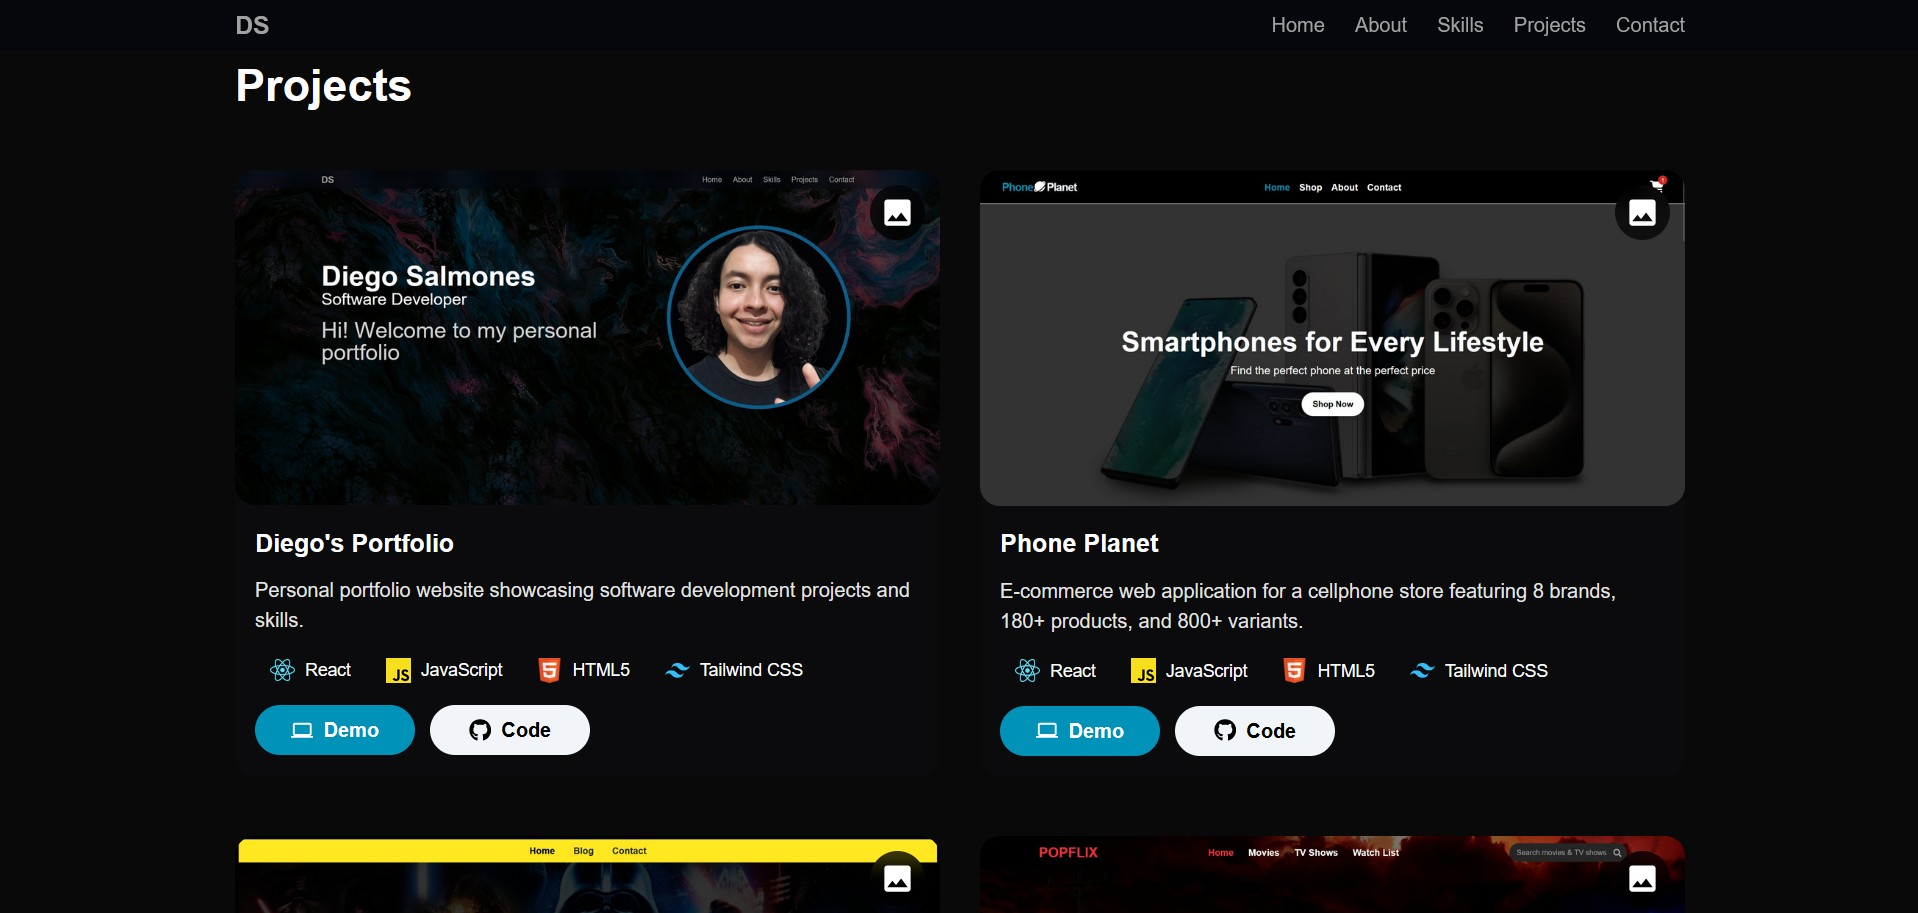
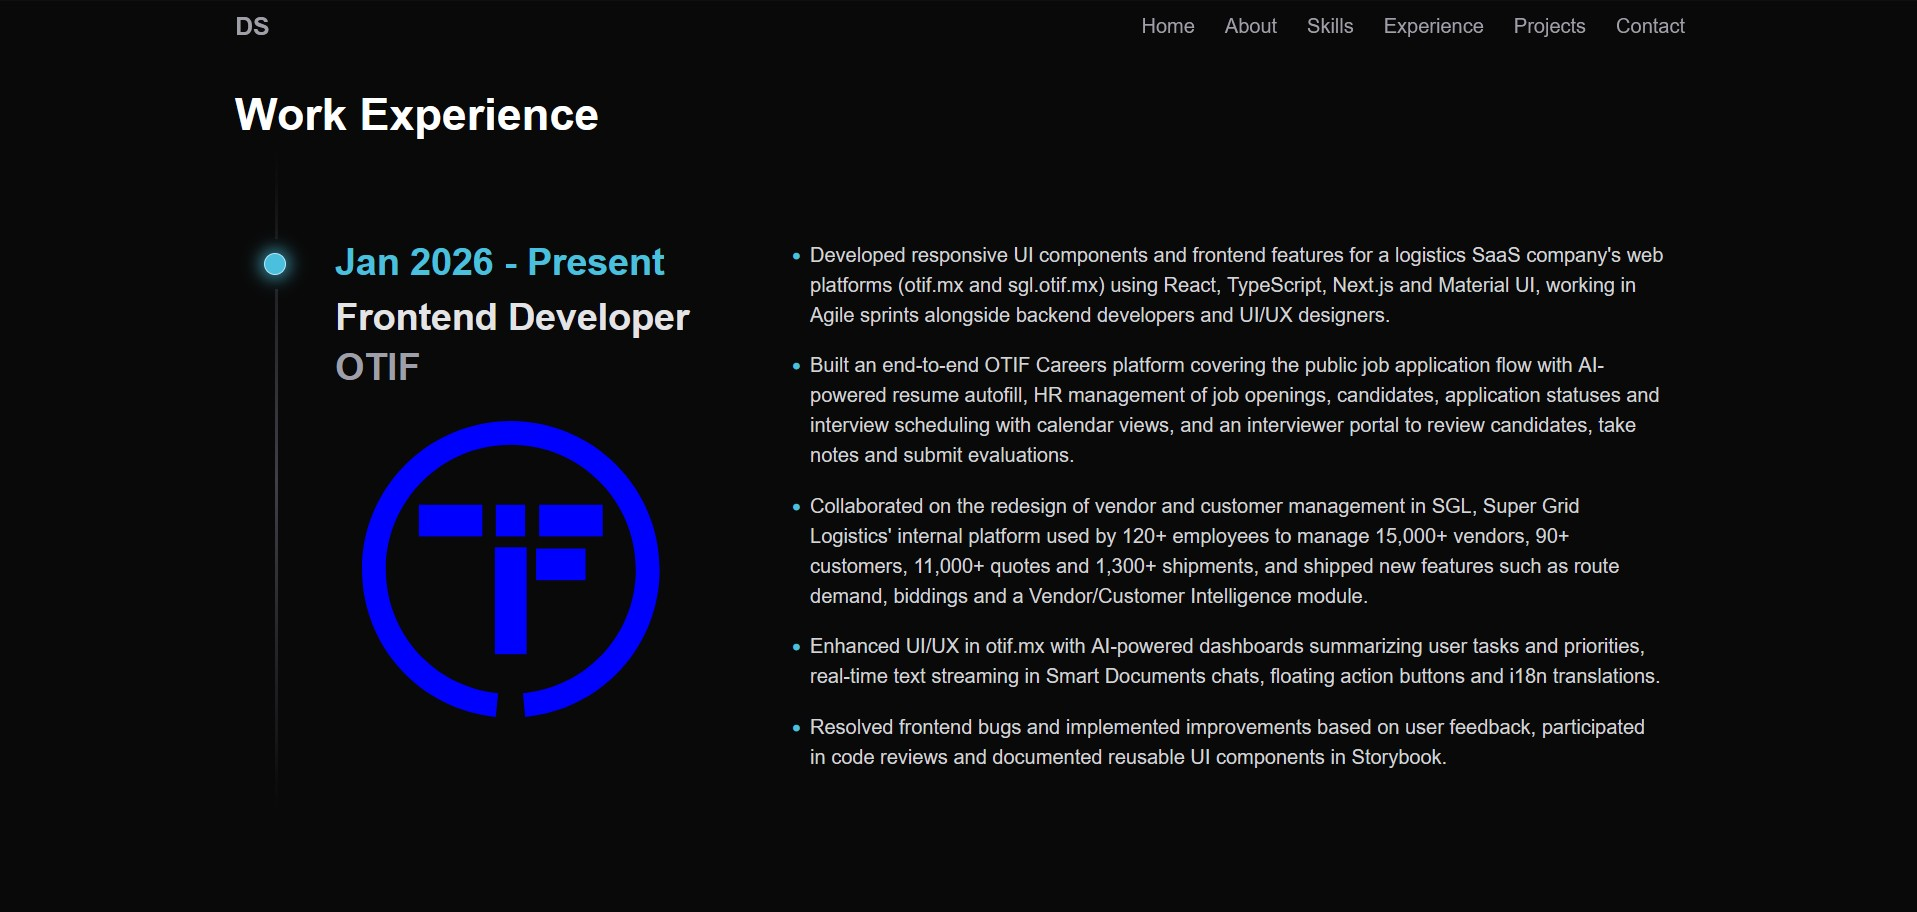
feat: update portfolio

diff --git a/src/constants/projects.js b/src/constants/projects.js
@@ -3,7 +3,7 @@ export const projects = [
     id: 1,
     title: "Diego's Portfolio",
     description:
-      "Personal portfolio website showcasing software development projects and skills.",
+      "Personal portfolio website showcasing my work experience, software development projects and skills.",
     demo: "https://diegosalmones-portfolio.vercel.app/",
     repository: "https://github.com/DiegoSalm522/DiegosPortfolio",
     image: "/assets/projects/diegos-portfolio/img0.jpg",
@@ -13,6 +13,7 @@ export const projects = [
       "/assets/projects/diegos-portfolio/img2.jpg",
       "/assets/projects/diegos-portfolio/img3.jpg",
       "/assets/projects/diegos-portfolio/img4.jpg",
+      "/assets/projects/diegos-portfolio/img5.jpg",
     ],
     tags: [
       {

diff --git a/src/sections/Experience.jsx b/src/sections/Experience.jsx
@@ -7,13 +7,13 @@ const Experience = () => {
     active: experience.current,
     title: (
       <div className="font-bold">
-        <p className="text-3xl md:text-4xl text-zinc-200">
+        <p className="text-3xl md:text-4-xl text-aqua">
           {experience.period}
         </p>
-        <p className="mt-1 text-2xl md:text-3xl text-zinc-400">
+        <p className="mt-2 text-2xl md:text-3xl text-zinc-200">
           {experience.role}
         </p>
-        <p className="text-2xl md:text-3xl text-zinc-500">
+        <p className="mt-1 text-2xl md:text-3xl text-zinc-400">
           {experience.company}
         </p>
         {experience.logo && (

diff --git a/src/constants/experience.js b/src/constants/experience.js
@@ -1,7 +1,7 @@
 export const experiences = [
   {
     id: 1,
-    period: "2026 - Present",
+    period: "Jan 2026 - Present",
     role: "Frontend Developer",
     company: "OTIF",
     logo: "/assets/experience/otif.svg",
